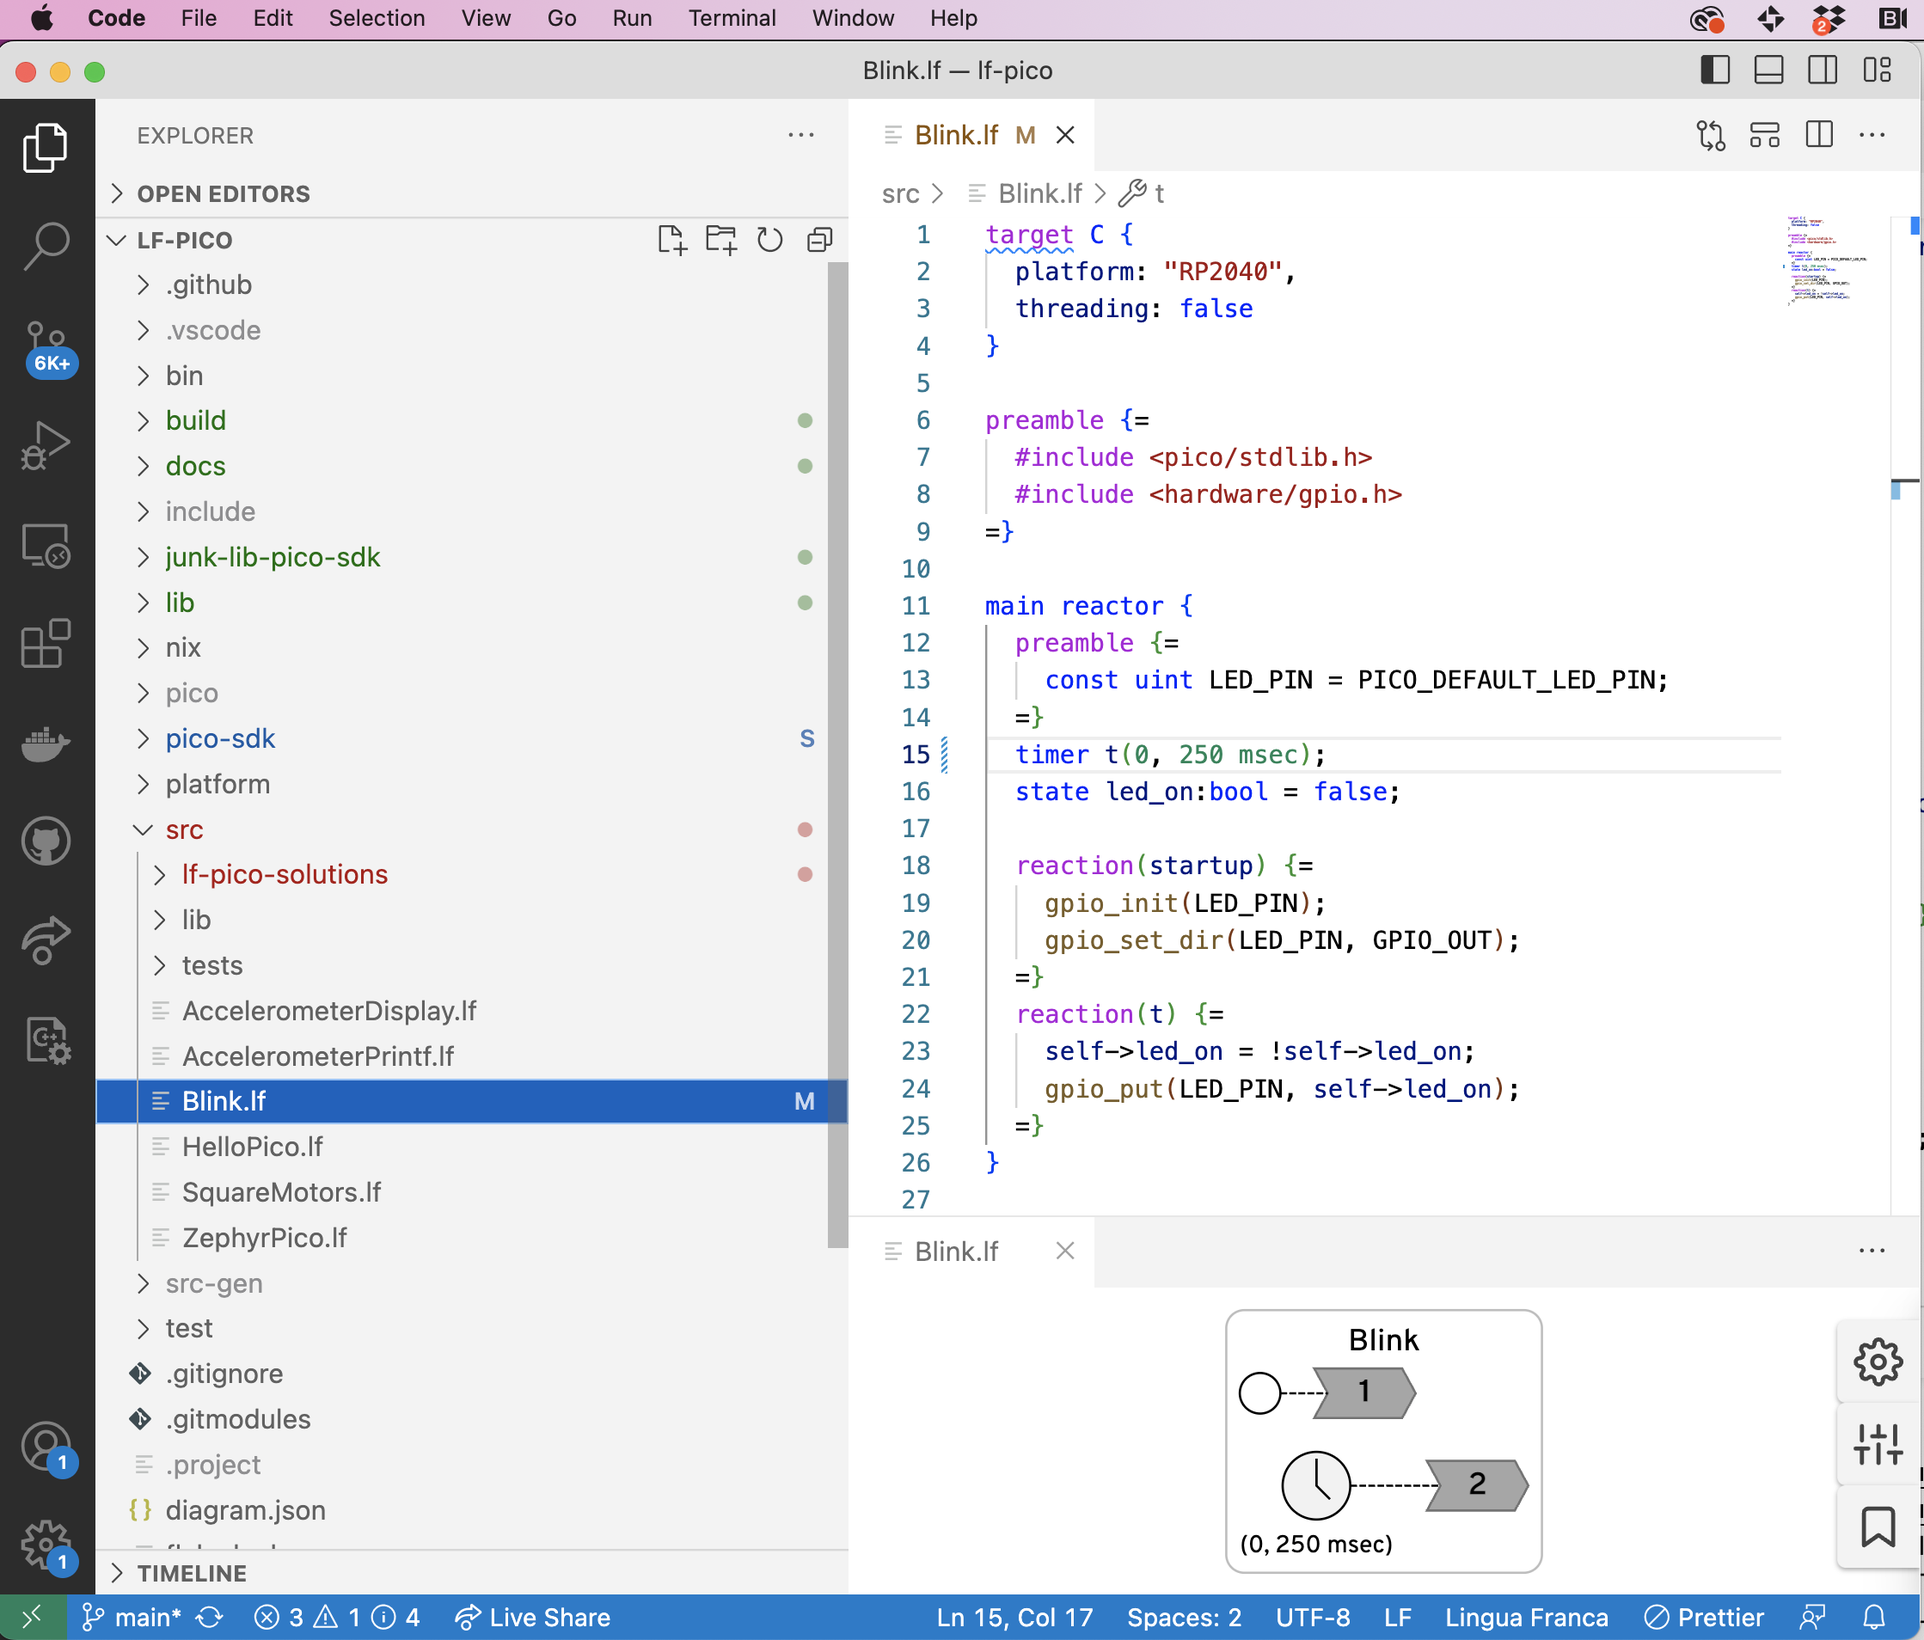
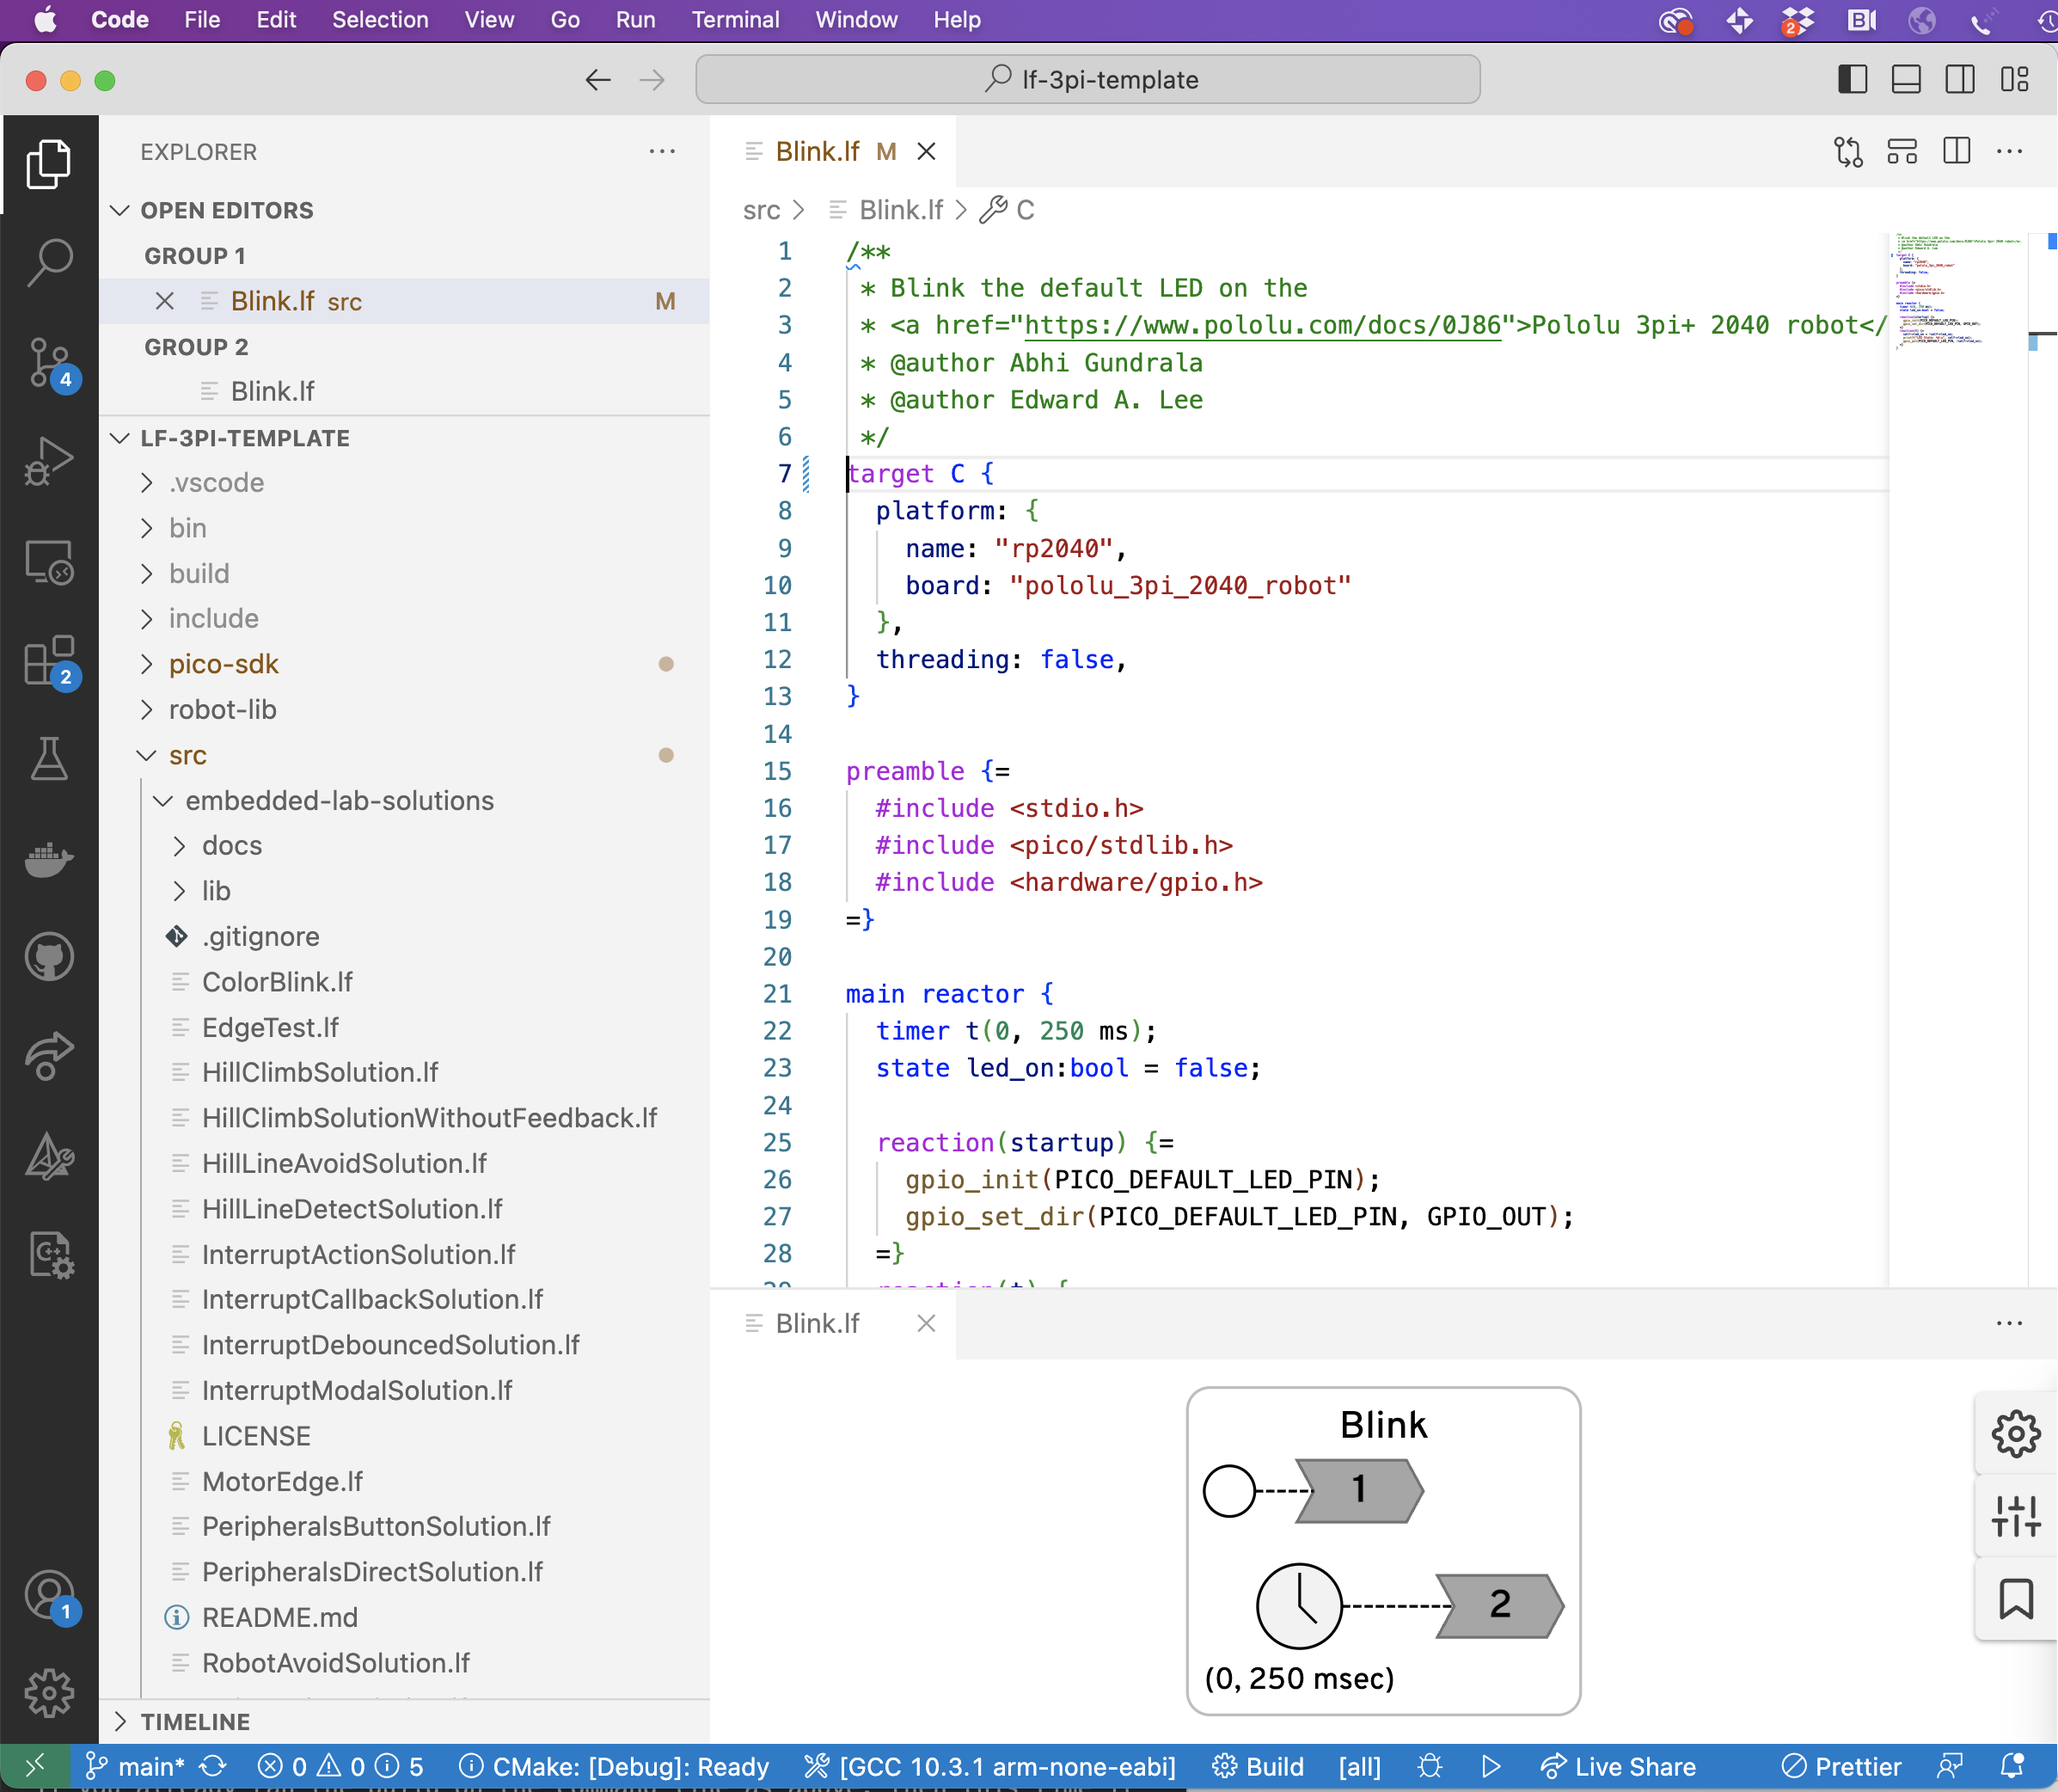
Update debugger info

diff --git a/src/Debugger.md b/src/Debugger.md
@@ -77,6 +77,7 @@ Complete wiring looks like this:
 
 <img src="img/wiring.jpg" alt="Robot to Pico wiring" width="60%"/>
 
+**NOTE:** The wiring connects the ground of the Pico to the ground of the robot, but there is no power connection to the robot. You will need to power the robot using its own batteries.
 
 ### Debug Symbols
 
@@ -86,9 +87,12 @@ For a Lingua Franca program to include such debug symbols, the **target** direct
 
 ```lf
 target C {
-    platform: "RP2040",
-    threading: false,
-    build-type: debug
+  platform: {
+    name: "rp2040",
+    board: "pololu_3pi_2040_robot"
+  },
+  threading: false,
+  build-type: debug
 }
 ```
 
@@ -122,14 +126,6 @@ The above will specify the
 	- `exit` disconnects openocd.
 
 When this is finished, the LED on the robot should be blinking.
-Included in the output from the above command should be something like this:
-
-```
-Info : starting gdb server for rp2040.core0 on 3333
-Info : Listening on port 3333 for gdb connections
-Info : starting gdb server for rp2040.core1 on 3334
-Info : Listening on port 3334 for gdb connections
-```
 
 ### GDB
 
@@ -139,6 +135,15 @@ First restart openocd using the following command:
 
 ```bash
 openocd -f interface/cmsis-dap.cfg -c "adapter speed 5000" -f target/rp2040.cfg -s tcl
+```
+
+Included in the output from the above command should be something like this:
+
+```
+Info : starting gdb server for rp2040.core0 on 3333
+Info : Listening on port 3333 for gdb connections
+Info : starting gdb server for rp2040.core1 on 3334
+Info : Listening on port 3334 for gdb connections
 ```
 
 In a separate terminal window, run the following `gdb` session specifying the `.elf` binary. Since this binary was built using the `debug` directive, it will include a symbol table that will be used for setting up breakpoints in `gdb`.
@@ -231,15 +236,39 @@ This is populated with settings to configure and run ``gdb``, ``openocd`` and ``
 Run the following after generating code for the desired lf program:
 
 ```bash
-$ code src-gen/<program>/
+$ code src-gen/Blink/
 ```
 
-In vscode, navigate to the run and debug tab on the left. A **Pico Debug** option should appear at the top as shown.
+In vscode, navigate to the run and debug tab on the left. A **Pico Debug** option should appear at the top as shown here:
 
 <img src="img/vscode-debug.png" alt="Debugging in VSCode"/>
 
-Make sure the *picoprobe* is connected and wired as noted above and click run. The debugger should automatically break
+First, you will need for VS Code to build the project.  Clean up from the previous `lfc` builds as follows:
+
+```bash
+rm -rf src-gen/Blink/build
+```
+
+Then click on the blue `Build` button at the bottom of the VS Code window.
+
+Make sure the *picoprobe* is connected and wired as noted above and click run (the green triangle). The debugger should automatically break
 at the ``main`` method of the application. Breakpoints can be visually inserted and other debugger options are accessible through
 the IDE gui.
+
+**Troubleshooting:** Depending on the platform you are running on and how `gdb` was installed, you may see the following error when try to run the program:
+
+<img src="img/vscode-error.png" alt="VS Code error screen" width="50%"/>
+
+Click on `Open 'launch.json'` and edit this line:
+
+```
+            "gdbPath" : "gdb-multiarch",
+```
+
+This line specifies the `gdb` program to use.  It may be simply:
+
+```
+            "gdbPath" : "gdb",
+```
 
 

diff --git a/src/Tools.md b/src/Tools.md
@@ -52,7 +52,7 @@ The VS Code extension for Lingua Franca has a particularly useful feature where 
 
 <img src="img/VSCodeExtension.png" alt="VS Code extension for Lingua Franca"/>
 
-## 3.1 Prelab
+## 3.1 Prelab 
 
 These exercises are intended to make sure you are up-to-speed on using the Unix command line.  See [Resources](./Resources.md) for some pointers.
 
